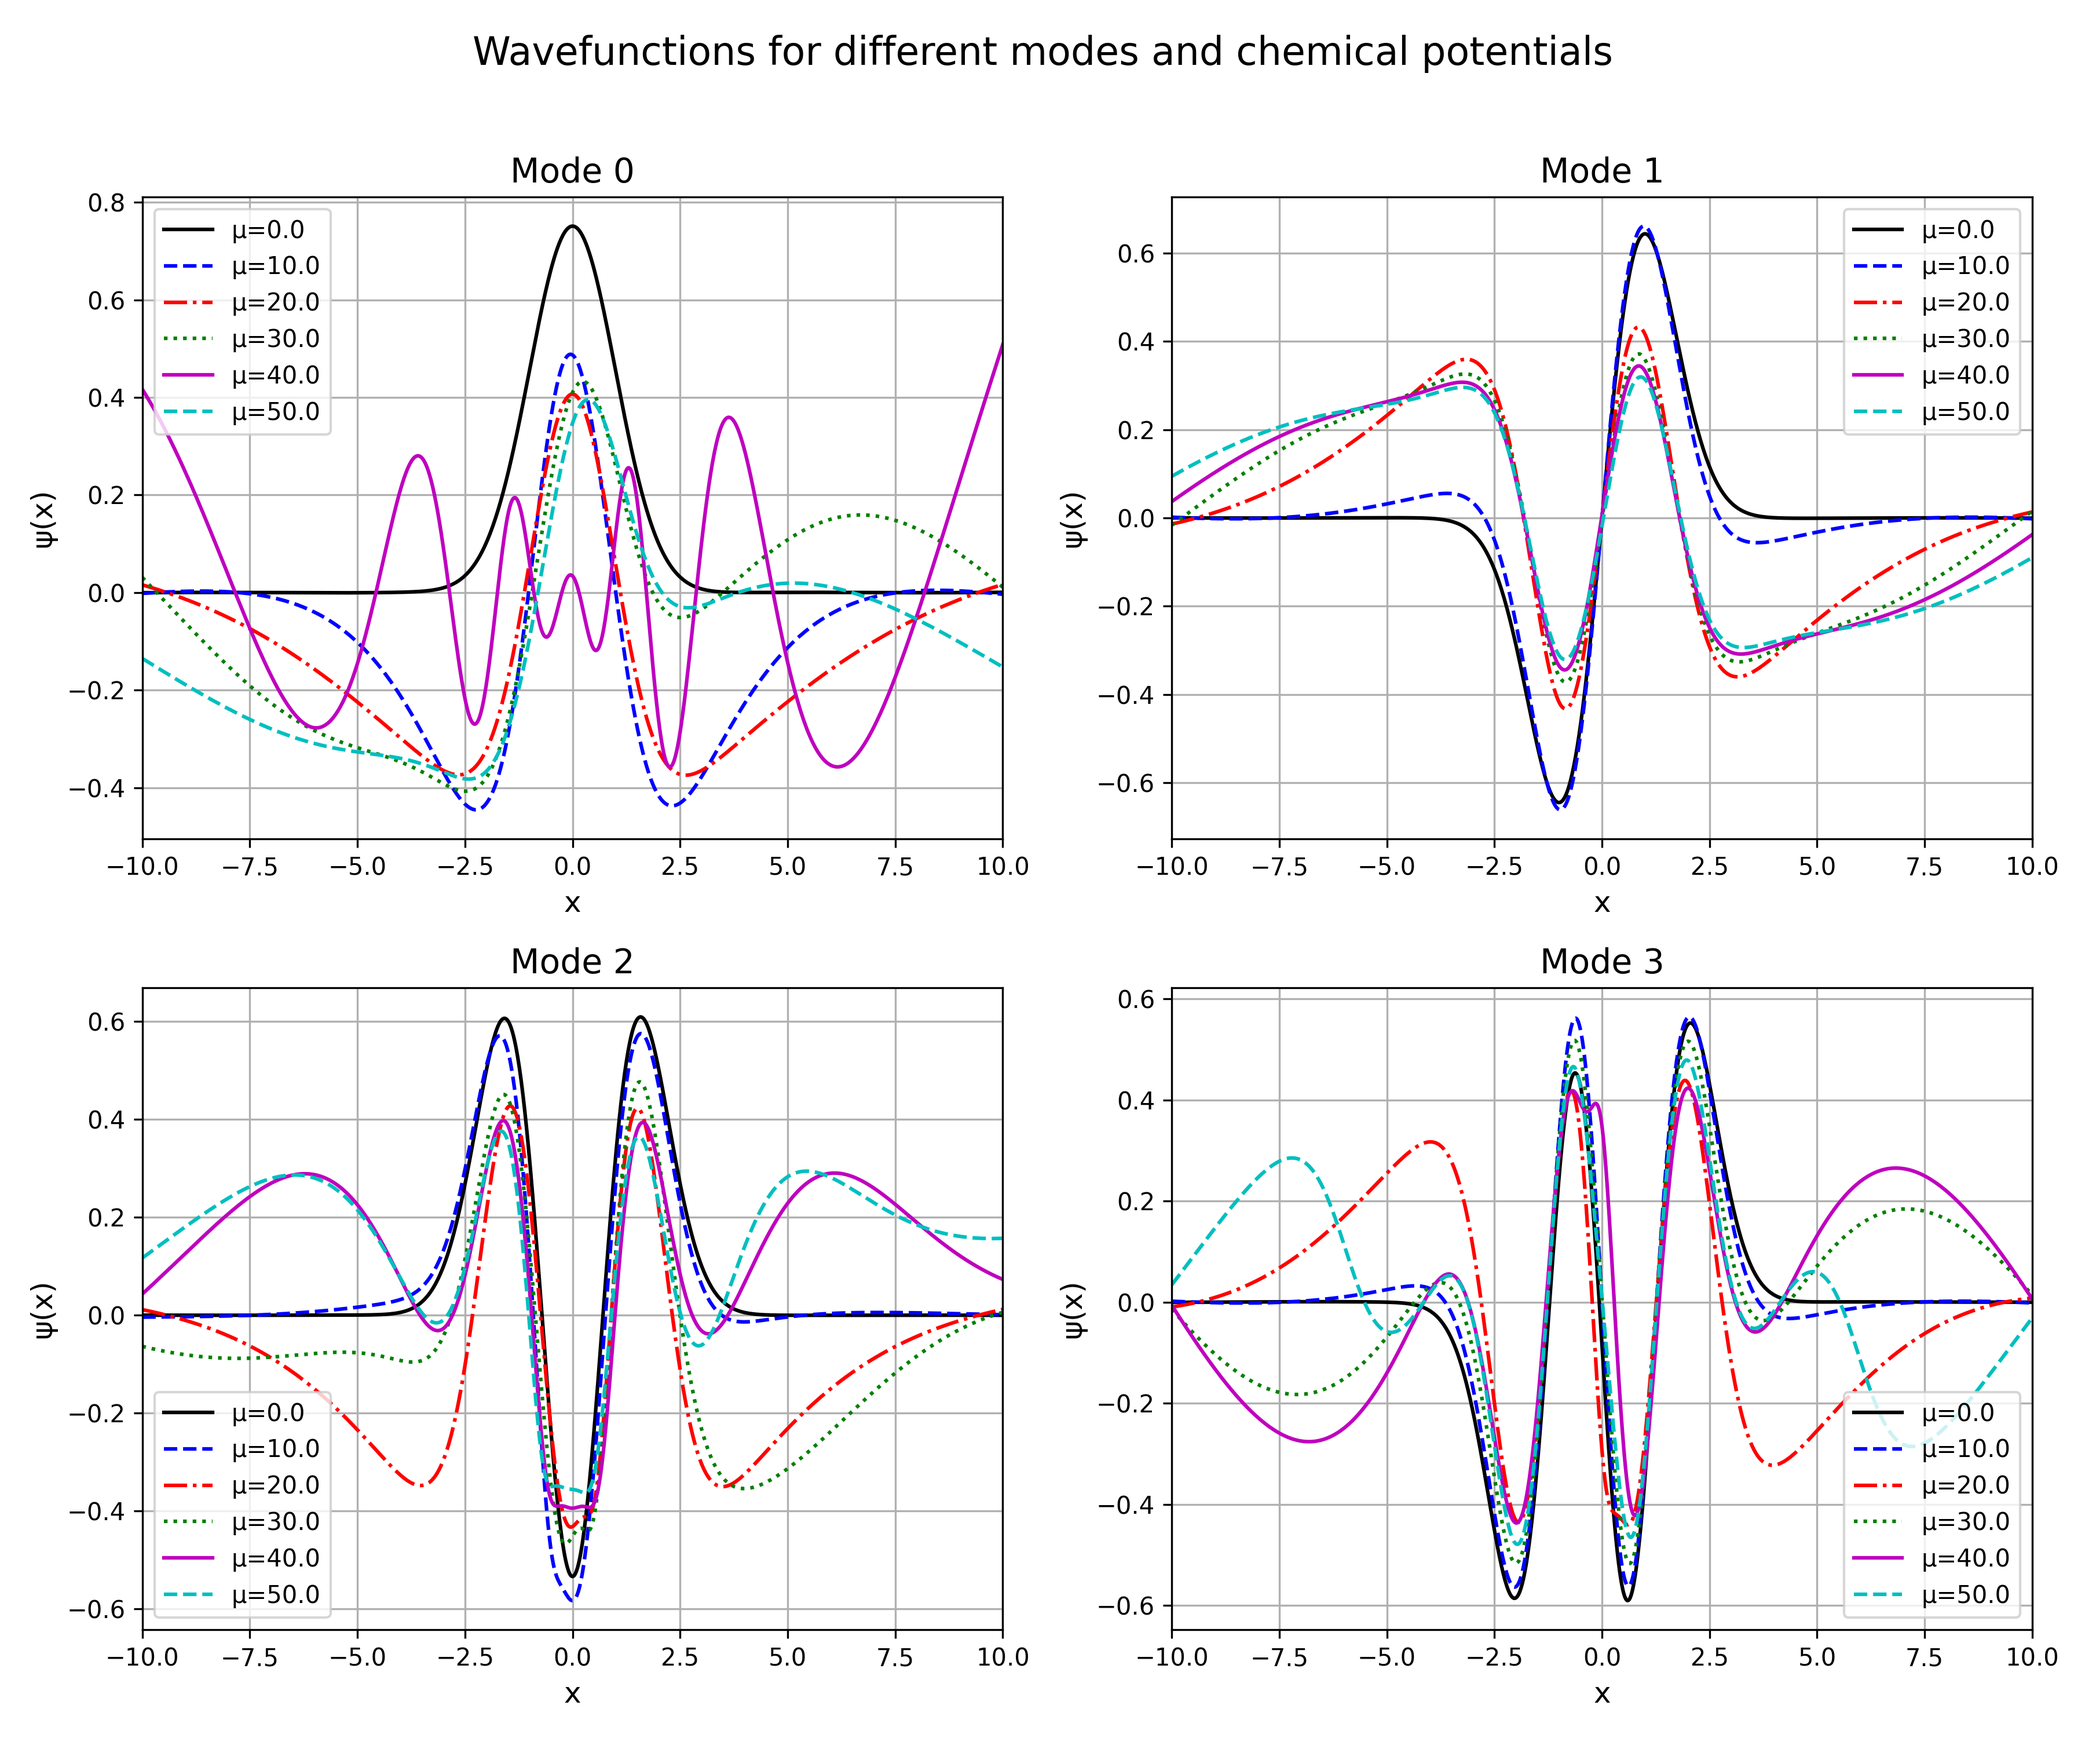
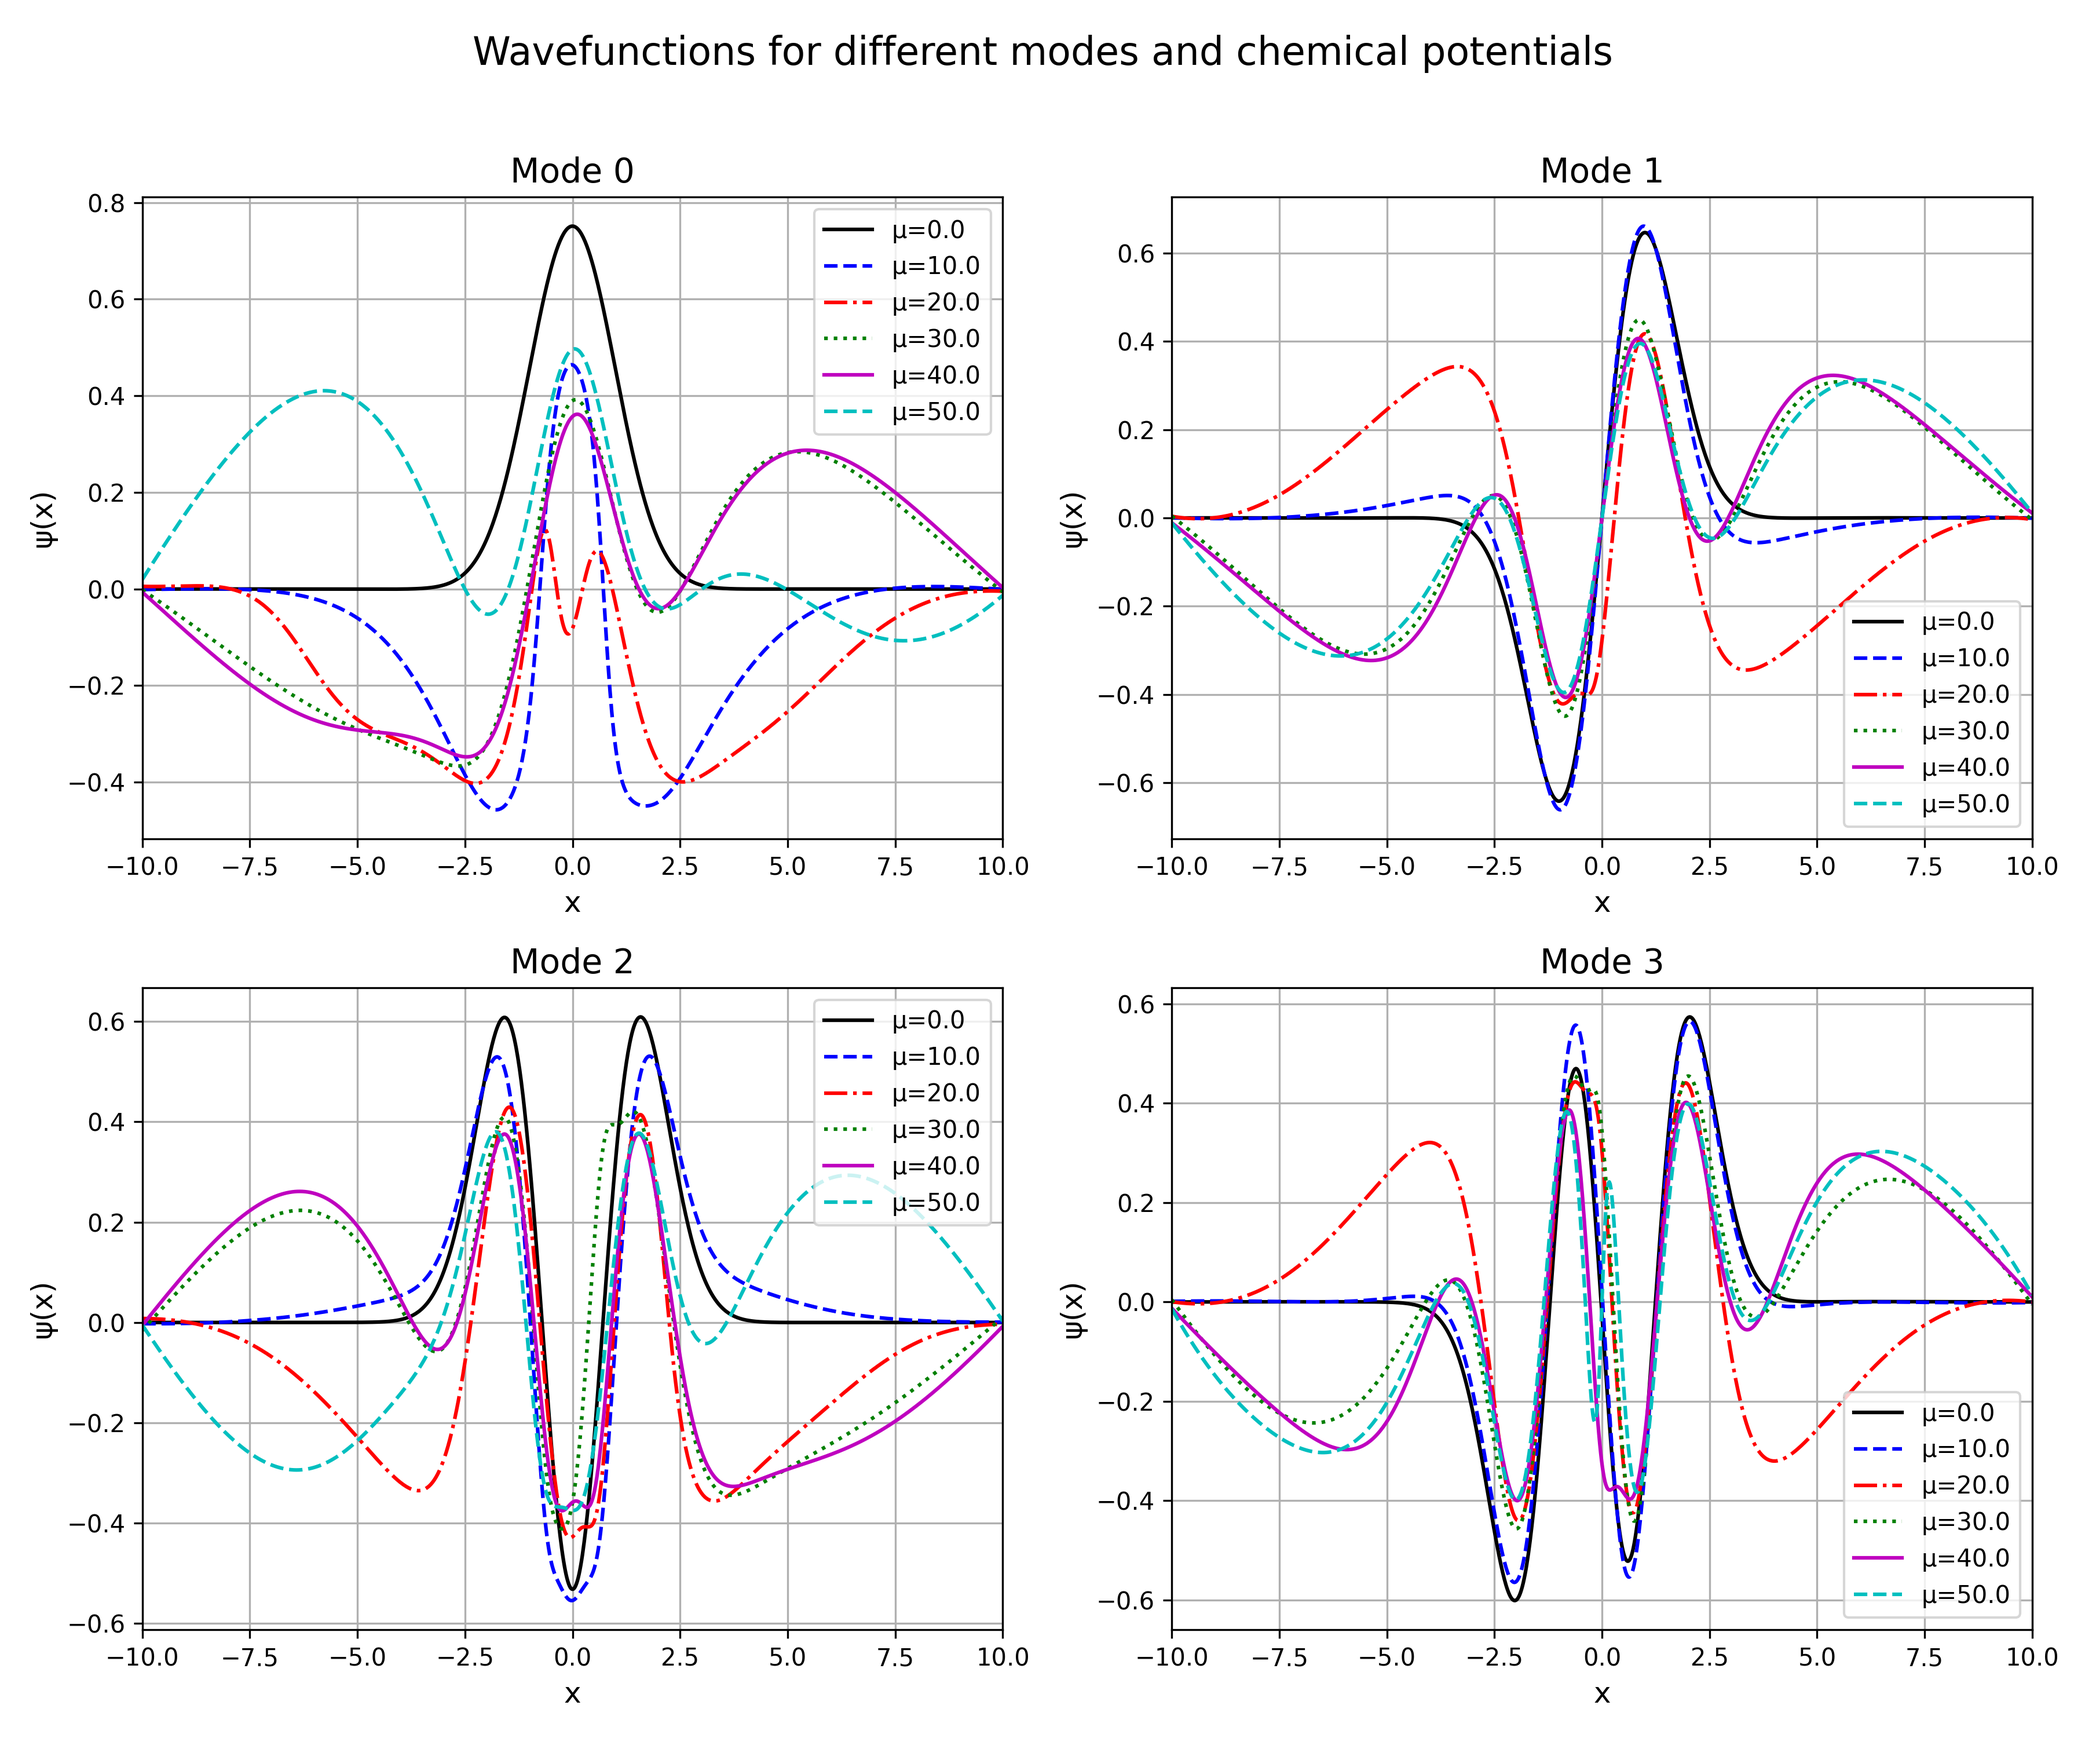
Intermediate changes to mu test

diff --git a/Gross-Pitaevskii/src/mu_test.py b/Gross-Pitaevskii/src/mu_test.py
@@ -879,7 +879,7 @@ if __name__ == "__main__":
     lb, ub = -10, 10  # Domain boundaries
     N_f = 4000  # Number of collocation points
     N_u = 200  # Number of boundary points
-    epochs = 2001  # More epochs for better convergence as in the paper
+    epochs = 5001  # More epochs for better convergence as in the paper
     layers = [1, 100, 100, 100, 1]  # Neural network architecture as in the paper
 
     X = np.linspace(lb, ub, N_f).reshape(-1, 1)
@@ -891,7 +891,7 @@ if __name__ == "__main__":
 
     # Adjusted weights for better convergence
     # [pde_loss, norm_loss, sym_loss, boundary_loss]
-    weights = [1.0, 10.0, 0.1, 1.0]
+    weights = [1.0, 10.0, 0.1, 10.0]
 
     # Train with fixed mu values (Algorithm 2)
     models_by_mode, gamma_table = train_with_mu_and_mode(
